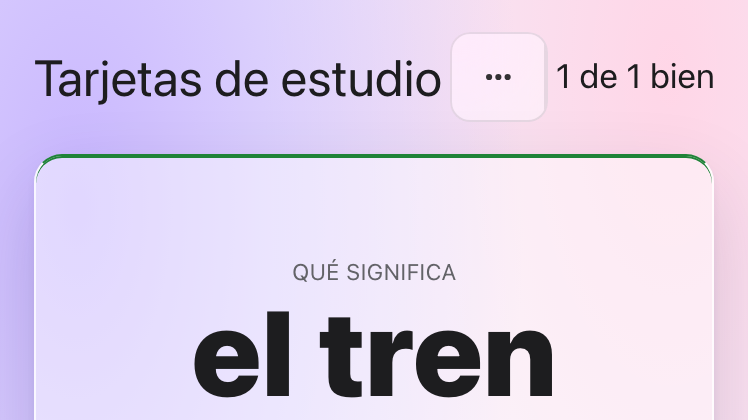
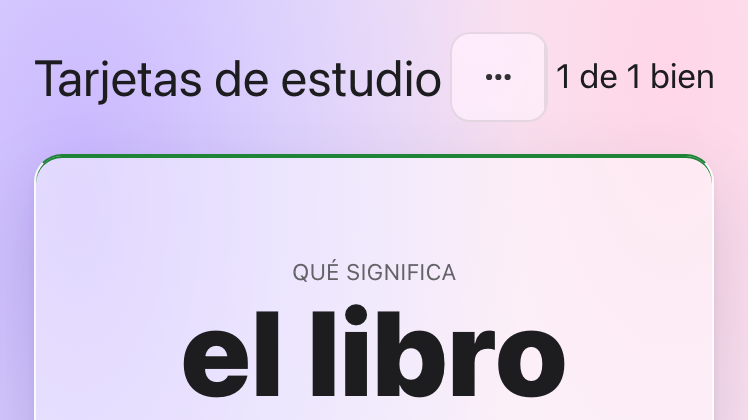
mockup T46:  the examples' page lists Calculadora and Tarjetas de estudio, each with its picture

Changed region(s): [[0.246, 0.7119, 0.7687, 0.9595]]

diff --git a/app/README-examples.md b/app/README-examples.md
@@ -38,9 +38,11 @@ its program on the left, the app it makes on the right, and the JavaScript it co
 | FizzBuzz | [`@spell/examples/fizzbuzz`](spaces/@spell/examples/fizzbuzz/) | Counting to 100 with fizz and buzz:  a loop, `if` and `otherwise`, and an event for each number, which the console prints and Explainer.spell's page draws, explaining it beside the results | <a href="docs/images/examples/fizzbuzz.png"><img src="docs/images/examples/fizzbuzz.png" width="360" alt="FizzBuzz open in the Spell editor:  its Spell on the left, the app running on the right"></a> |
 | Counter | [`@spell/examples/Counter`](spaces/@spell/examples/Counter/) | A button that counts its clicks:  a view with one property, one action and a drawing, in a few lines | <a href="docs/images/examples/Counter.png"><img src="docs/images/examples/Counter.png" width="360" alt="Counter open in the Spell editor:  its Spell on the left, the app running on the right"></a> |
 | Calculator | [`@spell/examples/calculator`](spaces/@spell/examples/calculator/) | A pocket calculator on Spell UI:  an app whose total is worked out as it's read, actions like `clear it` and `press (digit) on it`, and a keypad of buttons in a grid, whose clicks are Spell | <a href="docs/images/examples/calculator.png"><img src="docs/images/examples/calculator.png" width="360" alt="Calculator open in the Spell editor:  its Spell on the left, the app running on the right"></a> |
+| Calculadora | [`@spell/examples/Calculadora`](spaces/@spell/examples/Calculadora/) | Calculator's Spanish twin:  a pocket calculator on Spell UI, written in Spanish;  an app whose total is worked out as it's read, actions like `borrarla` and `pulsar (dígito)`, and a keypad of buttons in a grid, whose clicks are Spell | <a href="docs/images/examples/Calculadora.png"><img src="docs/images/examples/Calculadora.png" width="360" alt="Calculadora open in the Spell editor:  its Spell on the left, the app running on the right"></a> |
 | Tic-Tac-Toe | [`@spell/examples/tic-tac-toe`](spaces/@spell/examples/tic-tac-toe/) | Noughts and crosses on Spell UI:  nine squares drawn as buttons in a grid, whose turn it is, and three in a row, written as sentences | <a href="docs/images/examples/tic-tac-toe.png"><img src="docs/images/examples/tic-tac-toe.png" width="360" alt="Tic-Tac-Toe open in the Spell editor:  its Spell on the left, the app running on the right"></a> |
 | Bill Splitter | [`@spell/examples/bill-splitter`](spaces/@spell/examples/bill-splitter/) | Who owes what after a meal:  a row of Spell UI's fields per person and what each ordered, a tip shared out the same way, and sums that follow every keystroke | <a href="docs/images/examples/bill-splitter.png"><img src="docs/images/examples/bill-splitter.png" width="360" alt="Bill Splitter open in the Spell editor:  its Spell on the left, the app running on the right"></a> |
 | Flash Cards | [`@spell/examples/flash-cards`](spaces/@spell/examples/flash-cards/) | A deck of Spanish words to quiz yourself on:  each card a two sided view that turns over on a click, you say whether you knew it, and a toolbar keeps the score | <a href="docs/images/examples/flash-cards.png"><img src="docs/images/examples/flash-cards.png" width="360" alt="Flash Cards open in the Spell editor:  its Spell on the left, the app running on the right"></a> |
+| Tarjetas de estudio | [`@spell/examples/TarjetasDeEstudio`](spaces/@spell/examples/TarjetasDeEstudio/) | Flash Cards' Spanish twin:  a deck of English words to quiz yourself on, written in Spanish;  each card a two sided view that turns over on a click, you say whether you knew it, and a toolbar keeps the score | <a href="docs/images/examples/TarjetasDeEstudio.png"><img src="docs/images/examples/TarjetasDeEstudio.png" width="360" alt="Tarjetas de estudio open in the Spell editor:  its Spell on the left, the app running on the right"></a> |
 | Habit Tracker | [`@spell/examples/habit-tracker`](spaces/@spell/examples/habit-tracker/) | A week of checkboxes per habit:  each habit its own element with a form of its own, its days done and its longest streak worked out as you tick | <a href="docs/images/examples/habit-tracker.png"><img src="docs/images/examples/habit-tracker.png" width="360" alt="Habit Tracker open in the Spell editor:  its Spell on the left, the app running on the right"></a> |
 | Weather | [`@spell/examples/Weather`](spaces/@spell/examples/Weather/) | The weather in the city you pick, from Open-Meteo, a server other people run:  now, big, with its emoji, then the next 12 hours in a row;  its API in a file of its own, as `spell place ingest` wrote it | <a href="docs/images/examples/Weather.png"><img src="docs/images/examples/Weather.png" width="360" alt="Weather open in the Spell editor:  its Spell on the left, the app running on the right"></a> |
 | Task List | [`@spell/examples/TaskList`](spaces/@spell/examples/TaskList/) | A to-do list:  type a task and add it, tick it off, delete it, and drag the tasks into order;  each task its own element with Spell UI's controls, and the tasks kept on this device, so they're still there next time, with no server and no sign-in | <a href="docs/images/examples/TaskList.png"><img src="docs/images/examples/TaskList.png" width="360" alt="Task List open in the Spell editor:  its Spell on the left, the app running on the right"></a> |
